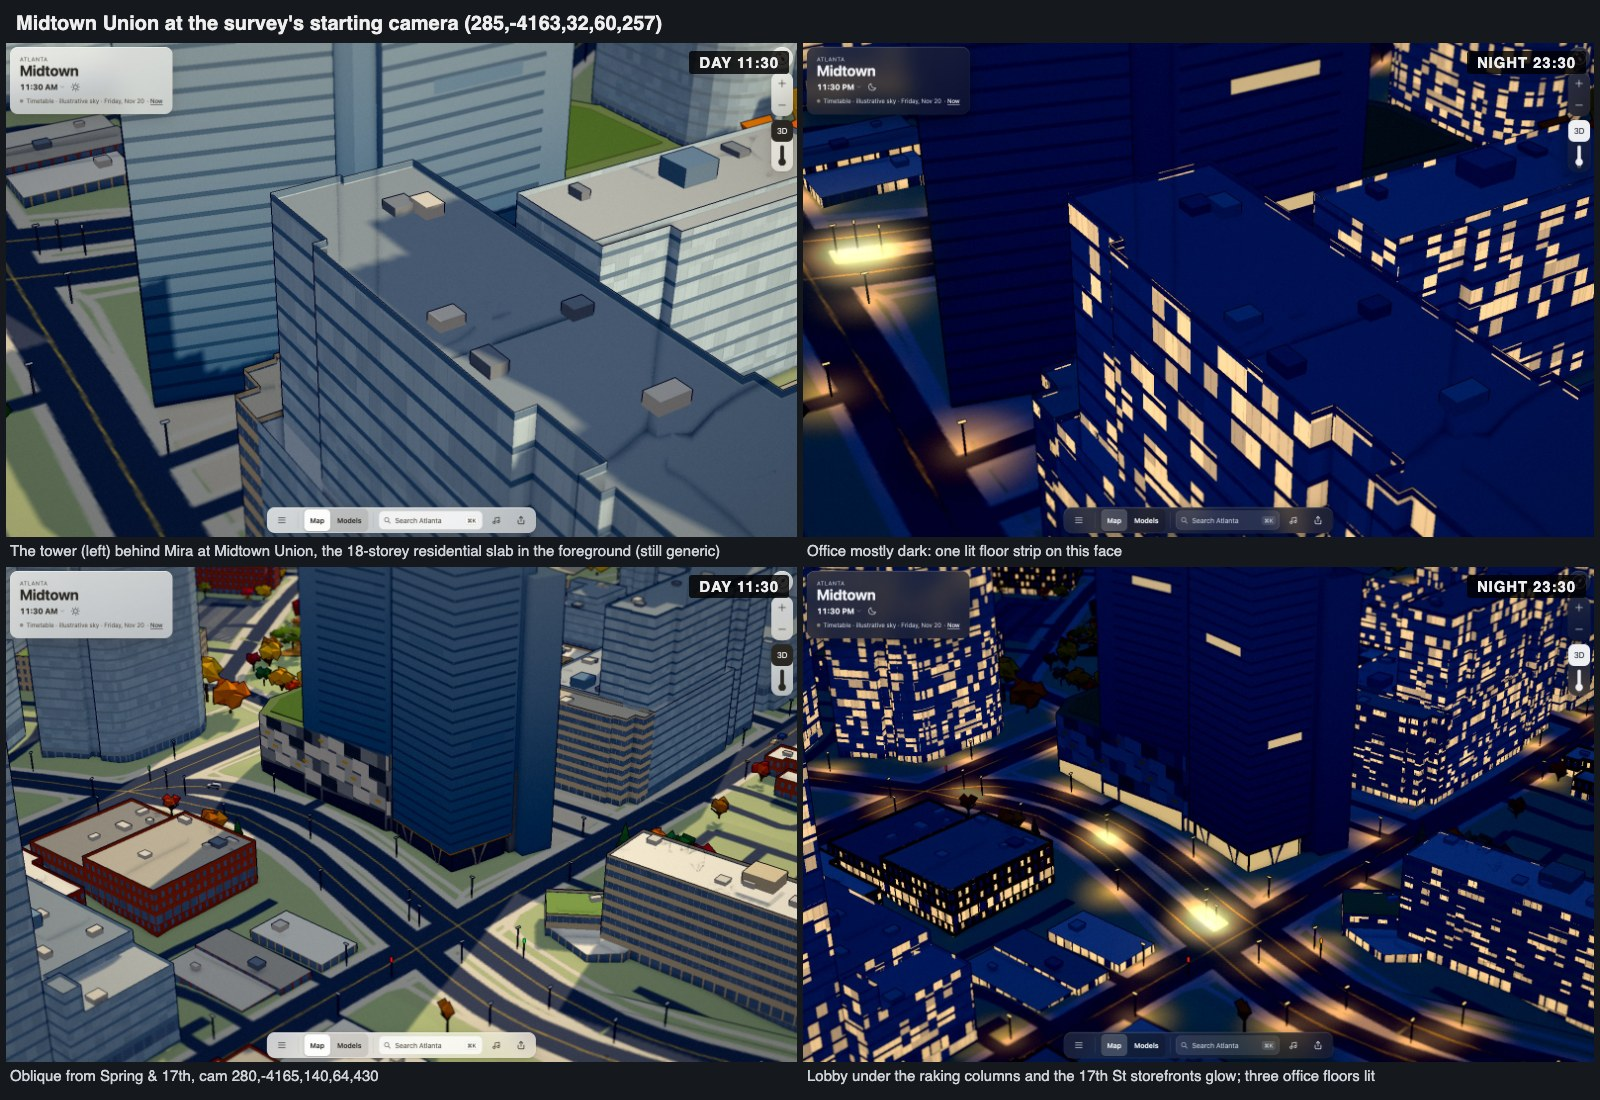
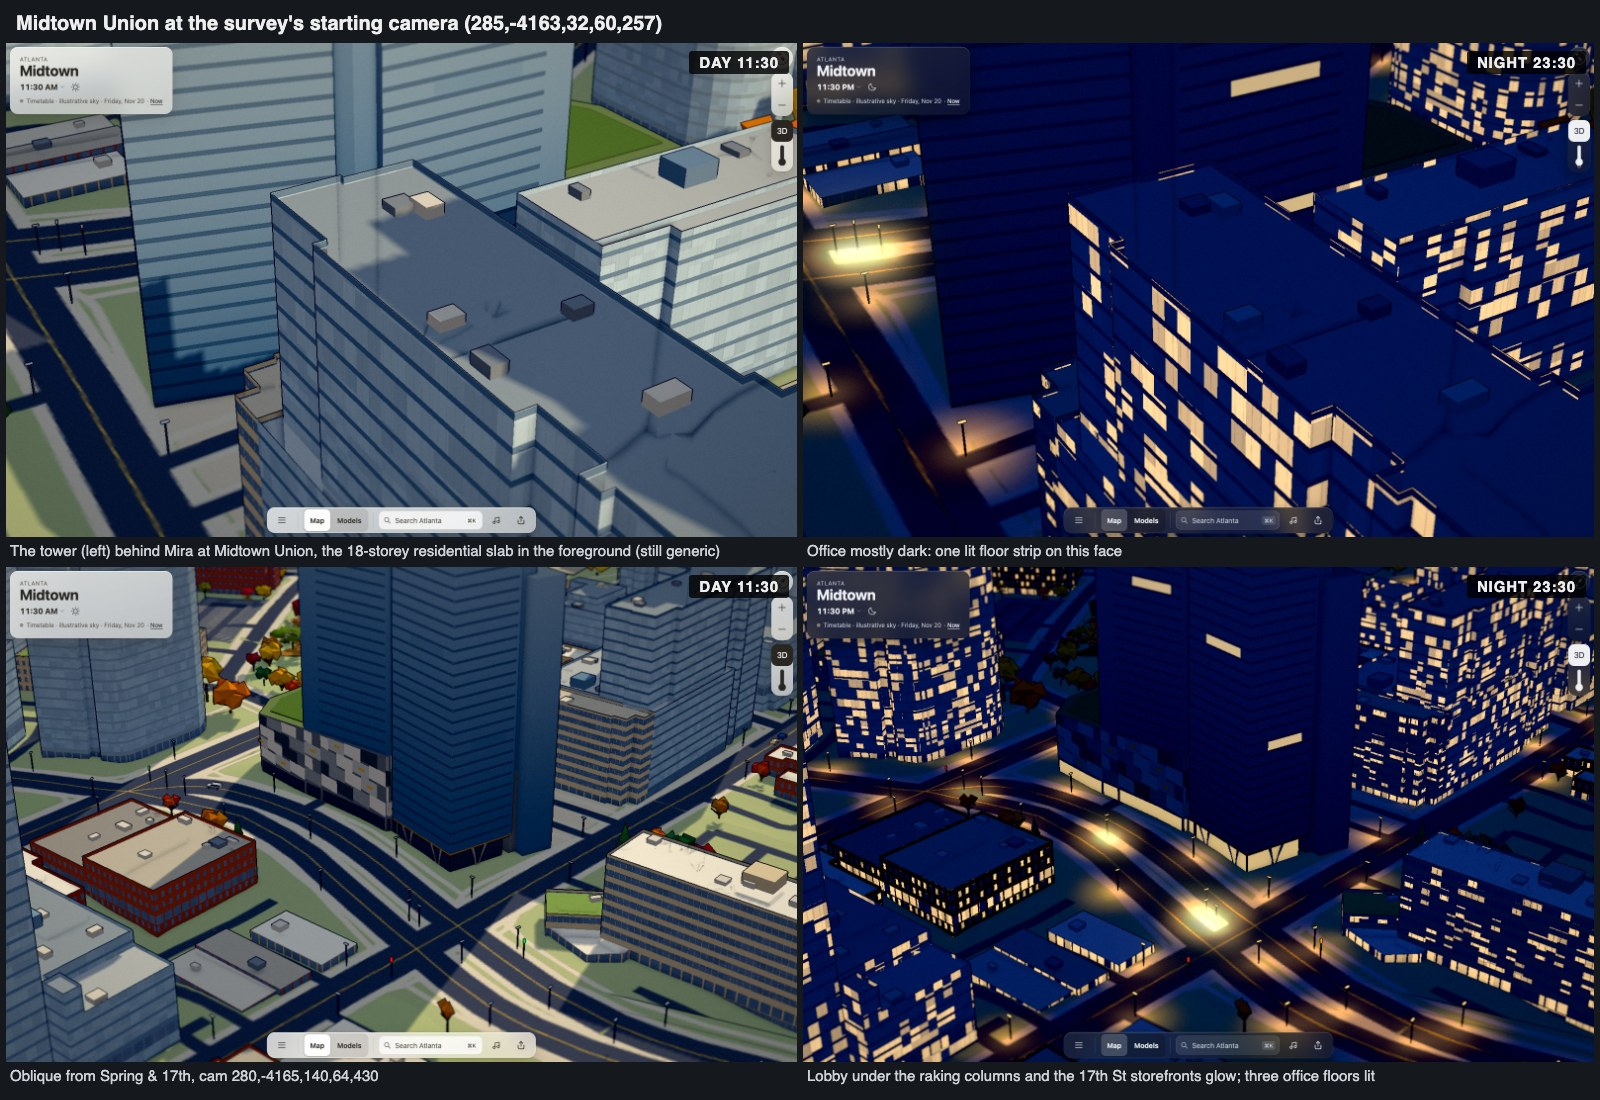
Sink Midtown Union's walls, follow the 17th Street grade and align lit floors
Review fixes: walls meet the ground 1 m below the lowest corner, the garage
storefront head and panel field follow ground sampled along each face, the
garage's internal face stays bare, lit strips fill whole storeys in their
mass's glass tone, and insets skip the mapped parts' small jogs.

Changed region(s): [[0.1562, 0.6491, 0.25, 0.7418], [0.6562, 0.6491, 0.75, 0.7418], [0.7812, 0.0618, 0.8125, 0.0927]]

diff --git a/web/src/city/midtown-union.ts b/web/src/city/midtown-union.ts
@@ -1,6 +1,6 @@
 import { ShapeUtils, Vector2 } from 'three';
 import type { GroundGrid } from '../terrain/grid';
-import type { P2 } from '../vignette/geom';
+import { pointInRing, type P2 } from '../vignette/geom';
 import type { VBuilding } from '../vignette/world';
 import { landmarkShell } from './landmark-shell';
 
@@ -50,6 +50,10 @@ export function createMidtownUnion(buildings: VBuilding[], site: VBuilding, grid
     [[0, 0], [-35, -15], [38, 0]]);
   if (!shell) return null;
   const floor = site.floorY === undefined ? shell.base + 0.35 : site.floorY + grid.manifest.vertical.sceneZeroNavd88M;
+  // Heights count from `floor`; walls that meet the ground start 1 m lower, so a dip in the
+  // terrain between two footprint corners never opens a slit under them.
+  const footing = Math.min(floor, shell.base) - 0.65;
+  const ground = ([x, z]: P2) => grid.sample(x + origin[0], z + origin[1]) ?? floor;
   const sign = Math.sign(shell.ring.reduce((s, [x, z], i) => {
     const [a, b] = shell.ring[(i + 1) % shell.ring.length]; return s + x * b - a * z;
   }, 0)) * -1;
@@ -84,7 +88,7 @@ export function createMidtownUnion(buildings: VBuilding[], site: VBuilding, grid
   // The office shaft: three glass masses at their mapped heights, set on the garage or the lobby.
   const masses: [P2[], number, number][] = [[prowR, 97.2, 0], [southR, 97.2, 1], [middleR, 93.6, 2], [sliverR, 90, 3]];
   for (const [ring, h, tone] of masses) {
-    const lo = ring === middleR ? floor + deckH : ring === sliverR ? floor : floor + lobbyH, hi = floor + h;
+    const lo = ring === middleR ? floor + deckH : ring === sliverR ? footing : floor + lobbyH, hi = floor + h;
     faces(ring, (a, b, length) => {
       glassWall(a, b, lo, hi, tone, floor + 97.2);
       if (length < 14) return;
@@ -101,16 +105,16 @@ export function createMidtownUnion(buildings: VBuilding[], site: VBuilding, grid
     roof(ring, hi);
   }
   // The middle mass sits on the garage; under it the walls are the garage's.
-  shell.prism(middleR, floor, floor + deckH, '#8d8f8e', '#8d8f8e');
+  shell.prism(middleR, footing, floor + deckH, '#8d8f8e', '#8d8f8e');
   shell.prism(courtR, floor + deckH, floor + 93.6, '#4a6a82', '#6c7a83');
   // A glass screen hides the roof plant on the tallest mass, set in 2.5 m.
-  const screen = inset(prowR, 2.5);
+  const screen = inset(simplify(prowR, 2), 2.5);
   shell.prism(screen, floor + 97.2, floor + 99.6, glassHigh[0], '#59656e');
 
   // Recessed double-height lobby glazing under a timber soffit, with raking columns.
   for (const ring of [prowR, southR]) {
-    const recessed = inset(ring, 2.2);
-    shell.prism(recessed, floor, floor + lobbyH - 0.6, '#2c3a43', '#2c3a43');
+    const recessed = inset(simplify(ring, 2), 2.2);
+    shell.prism(recessed, footing, floor + lobbyH - 0.6, '#2c3a43', '#2c3a43');
     shell.prism(ring, floor + lobbyH - 0.6, floor + lobbyH, '#b78a58', '#b78a58');
     faces(recessed, (a, b, length) => {
       const p = along(a, b, length, 0.4, 0.04 * out), q = along(a, b, length, length - 0.4, 0.04 * out);
@@ -136,7 +140,7 @@ export function createMidtownUnion(buildings: VBuilding[], site: VBuilding, grid
   }
 
   // The garage: grey, charcoal and white panels set on a diagonal, with gold slots.
-  shell.prism(garageR, floor, floor + deckH, '#8d8f8e', '#7d8a62');
+  shell.prism(garageR, footing, floor + deckH, '#8d8f8e', '#7d8a62');
   shell.prism(inset(garageR, 4), floor + deckH, floor + deckH + 0.4, '#6f7d58', '#6b7f4f');
   let slot = 0;
   for (const ring of [garageR, middleR]) {
@@ -144,28 +148,45 @@ export function createMidtownUnion(buildings: VBuilding[], site: VBuilding, grid
       // Only the street faces of the middle mass sit on the garage; its other sides adjoin the tower.
       const mid = along(a, b, length, length / 2);
       if (ring === middleR && (mid[1] > -12 || mid[0] < -15)) return;
-      // The street falls toward West Peachtree, so the storefront follows the face's own grade.
-      const grade = Math.max(floor, ...[a, b].map(([x, z]) => grid.sample(x + origin[0], z + origin[1]) ?? floor));
-      const lo = Math.max(floor + 5.2, grade + 5), hi = floor + deckH - 0.4, rows = 4, rowH = (hi - lo) / rows;
+      // Skip faces shared with another part: just outside them is still building.
+      const beyond = along(a, b, length, length / 2, 1.5 * out);
+      if ([prowR, southR, middleR, courtR, garageR].some(r => r !== ring && pointInRing(beyond[0], beyond[1], r))) return;
+      // The street falls toward West Peachtree, so the storefront and the panel field above it
+      // follow the ground sampled along the face.
+      const steps = Math.max(1, Math.ceil(length / 6));
+      const grades = Array.from({ length: steps + 1 }, (_, k) => Math.max(floor, ground(along(a, b, length, k * length / steps))));
+      const gradeAt = (u: number) => {
+        const t = Math.min(steps, Math.max(0, u / length * steps)), k = Math.min(steps - 1, Math.floor(t));
+        return grades[k] + (grades[k + 1] - grades[k]) * (t - k);
+      };
+      const hi = floor + deckH - 0.4, rows = 4;
+      const level = (u: number, f: number) => {
+        const lo = Math.max(floor + 5.2, gradeAt(u) + 5);
+        return lo + (hi - lo) * f;
+      };
       const cols = Math.max(1, Math.round(length / 7.5)), colW = length / cols;
       for (let r = 0; r < rows; r++)
         for (let c = 0; c < cols; c++) {
           // Shift each row by half a panel so the fields read as diagonal chevrons.
           const u0 = c * colW + (r % 2) * colW * 0.5, u1 = Math.min(length, u0 + colW);
-          const y0 = lo + r * rowH, y1 = y0 + rowH;
           const p = along(a, b, length, u0, 0.06 * out), q = along(a, b, length, u1, 0.06 * out);
           const color = panels[(c - r + 40 + slot) % panels.length];
-          body.quad([p[0], y0, p[1]], [p[0], y1 - 0.25, p[1]], [q[0], y1 + 0.6, q[1]], [q[0], y0 + 0.85, q[1]], color);
+          const rowH = (level(u0, 1) - level(u0, 0)) / rows;
+          body.quad([p[0], level(u0, r / rows), p[1]], [p[0], level(u0, (r + 1) / rows) - 0.25, p[1]],
+            [q[0], Math.min(hi, level(u1, (r + 1) / rows) + 0.6), q[1]], [q[0], level(u1, r / rows) + 0.85, q[1]], color);
           if ((c - r + 40 + slot) % panels.length === 1) {
             const s0 = along(a, b, length, u0 + colW * 0.3, 0.1 * out), s1 = along(a, b, length, u0 + colW * 0.62, 0.1 * out);
-            const ys = y0 + rowH * 0.45;
+            const ys = level(u0 + colW * 0.3, r / rows) + rowH * 0.45;
             body.quad([s0[0], ys, s0[1]], [s0[0], ys + 0.9, s0[1]], [s1[0], ys + 1.1, s1[1]], [s1[0], ys + 0.2, s1[1]], gold);
           }
         }
       slot++;
-      // Retail glazing under the panels.
-      const p = along(a, b, length, 0.5, 0.05 * out), q = along(a, b, length, length - 0.5, 0.05 * out);
-      lights.quad([p[0], floor + 0.4, p[1]], [p[0], grade + 4.4, p[1]], [q[0], grade + 4.4, q[1]], [q[0], floor + 0.4, q[1]], '#34444c');
+      // Retail glazing under the panels, one pane per sampled step so its head follows the street.
+      for (let k = 0; k < steps; k++) {
+        const u0 = Math.max(0.5, k * length / steps), u1 = Math.min(length - 0.5, (k + 1) * length / steps);
+        const p = along(a, b, length, u0, 0.05 * out), q = along(a, b, length, u1, 0.05 * out);
+        lights.quad([p[0], footing, p[1]], [p[0], gradeAt(u0) + 4.4, p[1]], [q[0], gradeAt(u1) + 4.4, q[1]], [q[0], footing, q[1]], '#34444c');
+      }
     });
   }
 
@@ -181,19 +202,20 @@ export function createMidtownUnion(buildings: VBuilding[], site: VBuilding, grid
     });
     return best;
   };
-  const litFloors: [P2[], number, P2][] = [
-    [prowR, 11, [-1, 0]], [prowR, 19, [0, -1]], [southR, 14, [0, 1]], [southR, 7, [0, 1]], [middleR, 22, [0, -1]],
+  const litFloors: [P2[], number, P2, number][] = [
+    [prowR, 11, [-1, 0], 0], [prowR, 19, [0, -1], 0], [southR, 14, [0, 1], 1], [southR, 7, [0, 1], 1], [middleR, 22, [0, -1], 2],
   ];
-  for (const [ring, level, dir] of litFloors) {
+  for (const [ring, level, dir, tone] of litFloors) {
     const face = facing(ring, dir);
     const a = ring[face], b = ring[(face + 1) % ring.length];
     const length = Math.hypot(b[0] - a[0], b[1] - a[1]);
-    const y = floor + lobbyH + (level - 2) * 3.6 + 0.5;
+    // A whole storey between two joints (joints are 0.8 m tall, every 3.6 m from floor + 0.5).
+    const y = floor + 0.5 + level * 3.6 + 0.8;
     const p = along(a, b, length, length * 0.15, 0.08 * out), q = along(a, b, length, length * 0.7, 0.08 * out);
     // By day the strip keeps the glass tone at its height, so only the night shows it.
     const n = lights.pos.length;
-    lights.quad([p[0], y, p[1]], [p[0], y + 2.6, p[1]], [q[0], y + 2.6, q[1]], [q[0], y, q[1]], '#42606f');
-    const lo = hex(glassLow[0], glassHigh[0], (y - floor) / 97.2), hi = hex(glassLow[0], glassHigh[0], (y + 2.6 - floor) / 97.2);
+    lights.quad([p[0], y, p[1]], [p[0], y + 2.8, p[1]], [q[0], y + 2.8, q[1]], [q[0], y, q[1]], '#42606f');
+    const lo = hex(glassLow[tone], glassHigh[tone], (y - floor) / 97.2), hi = hex(glassLow[tone], glassHigh[tone], (y + 2.8 - floor) / 97.2);
     for (let v = n; v < lights.pos.length; v += 3) lights.col.splice(v, 3, ...(lights.pos[v + 1] > y + 1 ? hi : lo));
   }
   return shell.finish('#f4dcae', 0.6);
@@ -213,4 +235,15 @@ function inset(ring: P2[], d: number): P2[] {
     const l = Math.hypot(x - cx, z - cz) || 1;
     return [x - (x - cx) / l * d, z - (z - cz) / l * d];
   });
+}
+
+/** Drops vertices that close an edge shorter than `min` metres (the mapped parts' small jogs). */
+function simplify(ring: P2[], min: number): P2[] {
+  const out: P2[] = [];
+  for (const p of ring) {
+    const last = out[out.length - 1];
+    if (!last || Math.hypot(p[0] - last[0], p[1] - last[1]) >= min) out.push(p);
+  }
+  while (out.length > 3 && Math.hypot(out[0][0] - out[out.length - 1][0], out[0][1] - out[out.length - 1][1]) < min) out.pop();
+  return out;
 }

diff --git a/web/src/city/midtown-union.test.ts b/web/src/city/midtown-union.test.ts
@@ -7,7 +7,7 @@ import { createMidtownUnion, midtownUnionId } from './midtown-union';
 // The mapped office building and its parts, as staged for the brookwood-south area.
 const site = {"id": "osm:way:1297223465", "cls": "office", "floors": 26, "h": null, "rings": [[[234.3, -4166.79], [234.68, -4166.69], [234.35, -4165.43], [235.5, -4165.13], [234.78, -4162.71], [231.03, -4163.83], [227.54, -4153.09], [260.43, -4144.24], [260.81, -4145.56], [263.9, -4144.01], [268.24, -4143.97], [268.22, -4142.05], [301.94, -4142.24], [308.24, -4142.29], [338.03, -4142.47], [338.27, -4167.75], [334.65, -4173.9], [330.81, -4180.43], [309.64, -4180.47], [302.07, -4180.48], [273.53, -4180.51], [273.13, -4178.42], [269.52, -4179.43], [270.05, -4181.4], [240.33, -4189.34]]], "name": "Midtown Union Office Building", "parts": [{"id": "osm:way:1433501523", "rings": [[[263.68, -4157.61], [269.52, -4179.43], [270.05, -4181.4], [240.33, -4189.34], [234.3, -4166.79], [234.68, -4166.69], [234.35, -4165.43], [235.5, -4165.13]]], "h": 97.2, "tier": "inferred"}, {"id": "osm:way:1453246988", "rings": [[[268.22, -4142.05], [301.94, -4142.24], [308.24, -4142.29], [308.58, -4157.51], [296.88, -4157.64], [271.26, -4157.65], [268.25, -4157.66], [268.24, -4143.97]]], "h": 97.2, "tier": "inferred"}, {"id": "osm:way:1453246989", "rings": [[[271.26, -4157.65], [271.27, -4170.35], [296.89, -4170.34], [296.88, -4157.64], [308.58, -4157.51], [308.65, -4160.2], [309.7, -4160.2], [309.64, -4180.47], [302.07, -4180.48], [273.53, -4180.51], [273.13, -4178.42], [269.52, -4179.43], [263.68, -4157.61], [235.5, -4165.13], [234.78, -4162.71], [233.74, -4159.23], [260.81, -4145.56], [263.9, -4144.01], [268.24, -4143.97], [268.25, -4157.66]]], "h": 93.6, "tier": "inferred"}, {"id": "osm:way:1453246990", "rings": [[[296.88, -4157.64], [296.89, -4170.34], [271.27, -4170.35], [271.26, -4157.65]]], "h": 93.6, "tier": "inferred"}, {"id": "osm:way:1433501524", "rings": [[[260.43, -4144.24], [260.81, -4145.56], [233.74, -4159.23], [234.78, -4162.71], [231.03, -4163.83], [227.54, -4153.09]]], "h": 90, "tier": "inferred"}, {"id": "osm:way:1433501525", "rings": [[[308.65, -4160.2], [308.58, -4157.51], [308.24, -4142.29], [338.03, -4142.47], [338.27, -4167.75], [334.65, -4173.9], [330.81, -4180.43], [309.64, -4180.47], [309.7, -4160.2]]], "h": 28.8, "tier": "inferred"}]} as VBuilding;
 
-const flat = (navd88: number) => new GroundGrid(
+const grid = (west: number, east: number) => new GroundGrid(
   {
     version: 1, rows: 2, cols: 2, stepM: 600,
     bounds: { minX: 0, maxX: 600, minZ: -4500, maxZ: -3900 },
@@ -15,8 +15,9 @@ const flat = (navd88: number) => new GroundGrid(
     vertical: { crs: 'EPSG:5703', sceneZeroNavd88M: 300 },
     scaleM: 0.1, offsetM: 0, noData: -32768, sha256: '',
   },
-  new Int16Array(4).fill(navd88 * 10).buffer,
+  new Int16Array([west * 10, east * 10, west * 10, east * 10]).buffer,
 );
+const flat = (navd88: number) => grid(navd88, navd88);
 
 it('stands the glass shaft on the mapped parts over the 17th Street garage', () => {
   const other: VBuilding = { id: 'other', h: 10, floors: null, rings: [[[0, 0], [1, 0], [1, 1]]] };
@@ -38,4 +39,23 @@ it('stands the glass shaft on the mapped parts over the 17th Street garage', () 
   let triangles = 0;
   result.group.traverse(o => { if ('geometry' in o) triangles += (o as { geometry: { attributes: { position: { count: number } } } }).geometry.attributes.position.count / 3; });
   expect(triangles).toBeLessThan(1600);
+});
+
+it('sinks the walls below a falling street and keeps the 17th Street storefront head 4.4 m above it', () => {
+  // About 3.7 m of fall across the site, toward West Peachtree.
+  const sloped = grid(290, 270);
+  const result = createMidtownUnion([site], site, sloped)!;
+  result.group.updateMatrixWorld(true);
+  const [body, lamps] = result.group.children as unknown as { geometry: { attributes: { position: { array: ArrayLike<number> } } } }[];
+  const points = (mesh: typeof body) => {
+    const a = mesh.geometry.attributes.position.array, out: [number, number, number][] = [];
+    for (let i = 0; i < a.length; i += 3) out.push([a[i] + result.group.position.x, a[i + 1], a[i + 2] + result.group.position.z]); // y is NAVD88 in the group
+    return out;
+  };
+  const lowest = Math.min(...site.rings[0].map(([x, z]) => sloped.sample(x, z)!));
+  expect(Math.min(...points(body).map(p => p[1]))).toBeLessThan(lowest - 0.9);
+  // Storefront heads on the garage: every top corner sits 4.4 m over the ground beneath it.
+  const heads = points(lamps).filter(([x, y]) => x > 309 && y > lowest + 2 && y < lowest + 12);
+  expect(heads.length).toBeGreaterThan(8);
+  for (const [x, y, z] of heads) expect(y - sloped.sample(x, z)!).toBeCloseTo(4.4, 0);
 });

diff --git a/docs/log/ui/midtown-union/README.md b/docs/log/ui/midtown-union/README.md
@@ -14,7 +14,7 @@ The 26-storey office tower at 1331 Spring Street (Cooper Carry for Granite Prope
 
 ## Model
 
-All of it is vertex colours on `landmarkShell`'s StaticLandmarkMaterial body plus its lamp mesh, with no library surfaces and no new shader program. The glass shades from the street-level tone up to the sky reflection near the top. A broad joint every 3.6 m is the same glass, darker, so the curtain wall keeps its floor rhythm at the 450 m orbit without per-pane speckle. The garage's storefront band follows each face's own sampled grade, because the street falls toward West Peachtree. The tower adds 1,296 body triangles and 64 lamp triangles.
+All of it is vertex colours on `landmarkShell`'s StaticLandmarkMaterial body plus its lamp mesh. The concrete columns, timber soffit and garage walls skip the material library on purpose: a painted body compiles another shader program, and the skins agreed to hold low tier under its 90-program ceiling until the phone budget work lands. At the 450 m orbit the library's sub-metre detail fades out anyway. The glass shades from the street-level tone up to the sky reflection near the top. A broad joint every 3.6 m is the same glass, darker, so the curtain wall keeps its floor rhythm at the 450 m orbit without per-pane speckle. The street falls toward West Peachtree, so the garage's storefront head and panel field follow the ground sampled every 6 m along each face. Walls that meet the ground start 1 m below the lowest corner. The tower adds 1,296 body triangles and 64 lamp triangles.
 
 | View | Camera | Local time, 20 November 2026 | Capture |
 |---|---|---|---|
